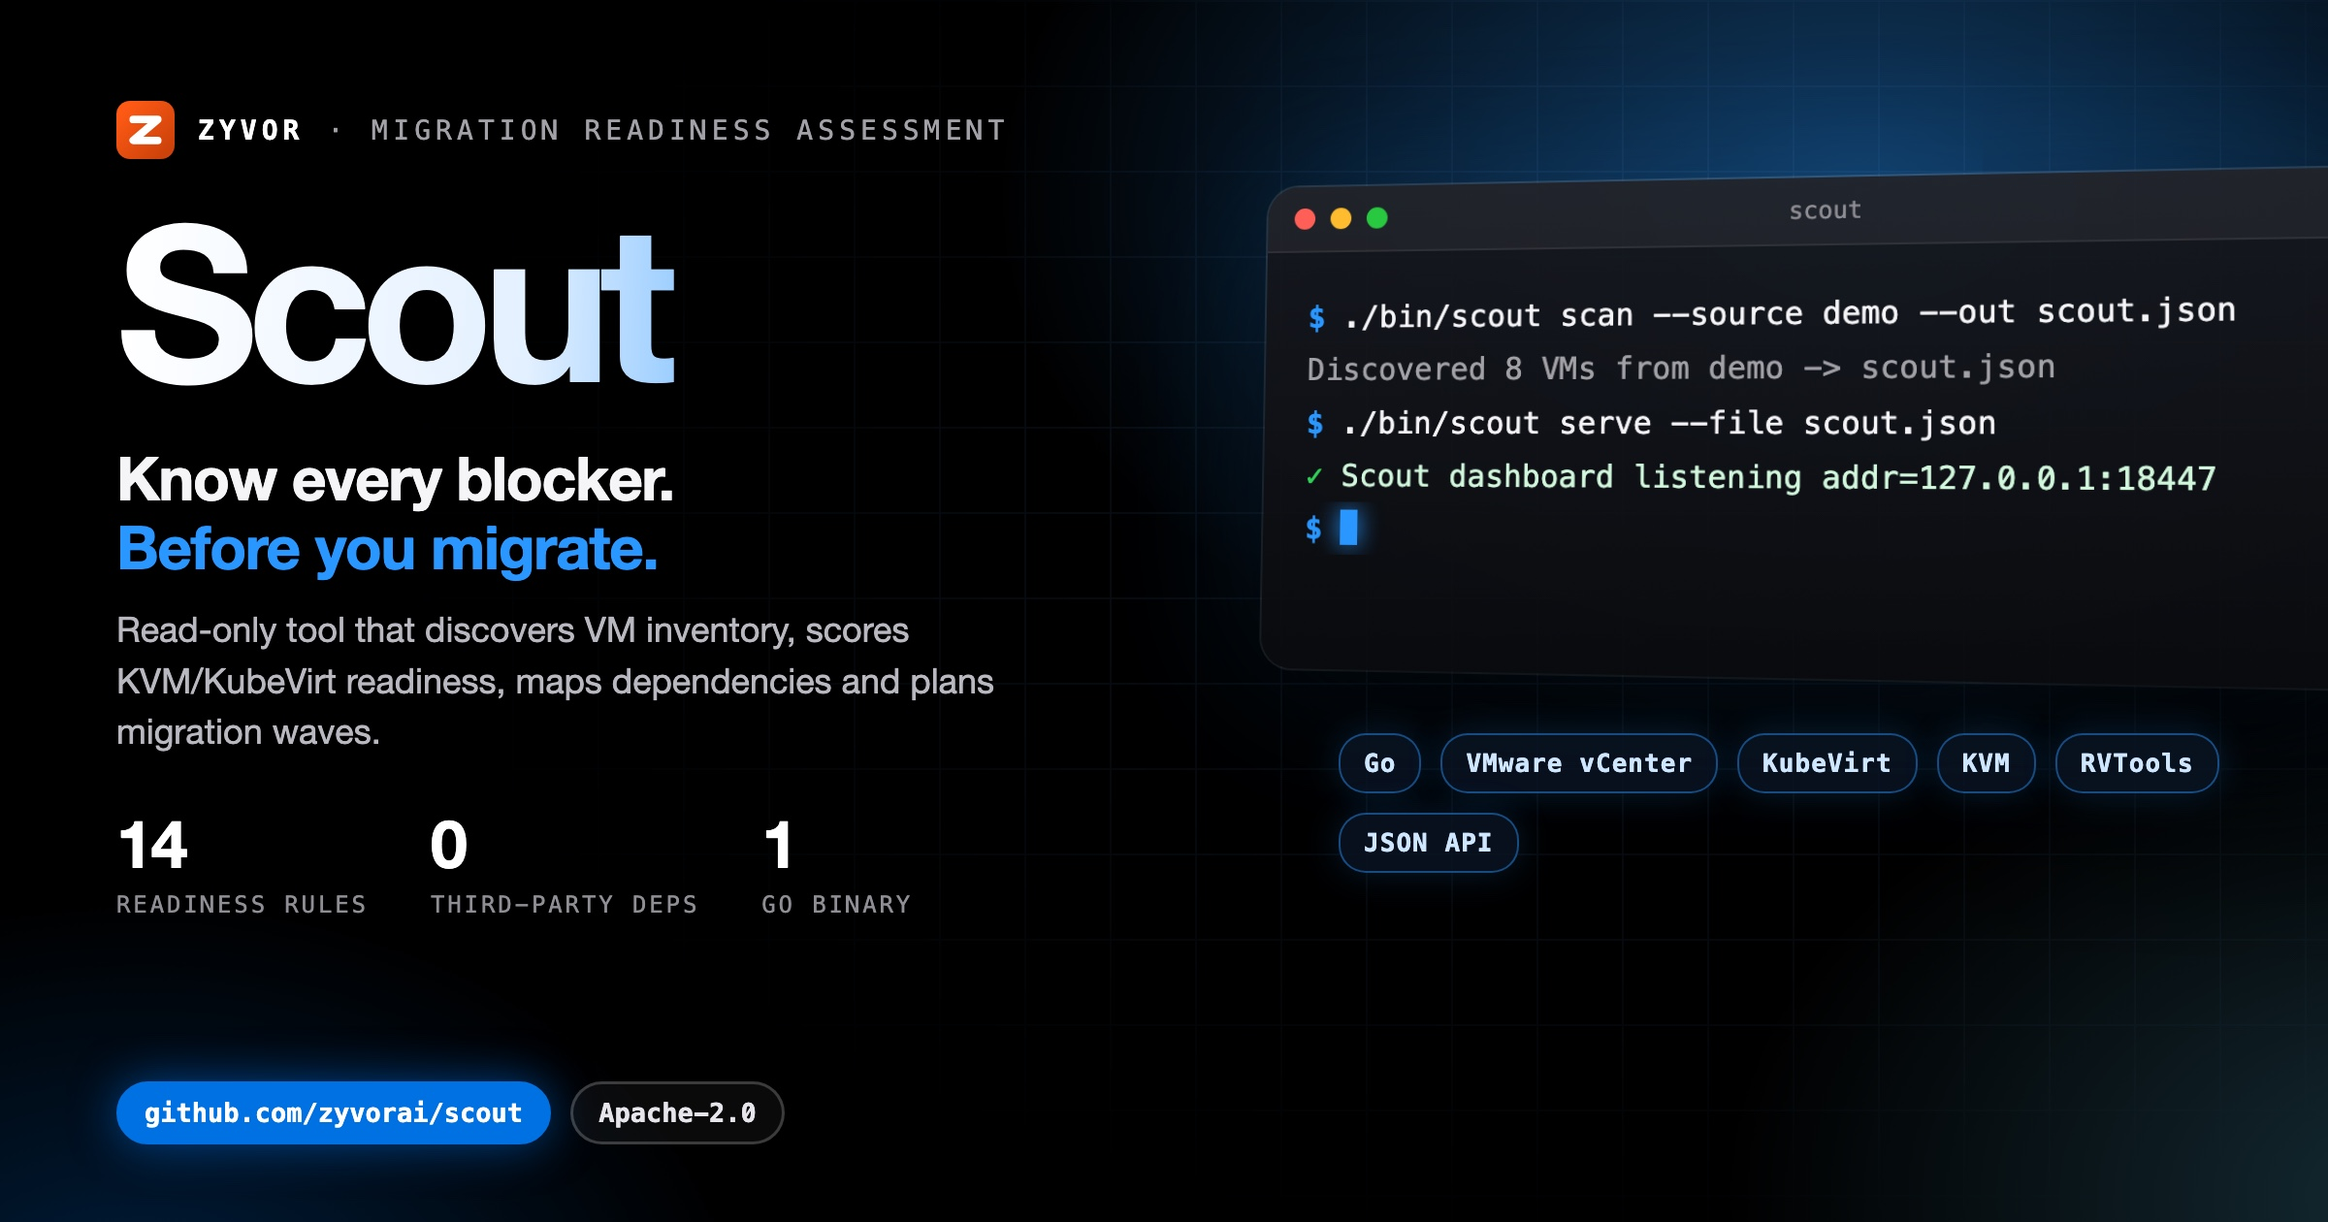
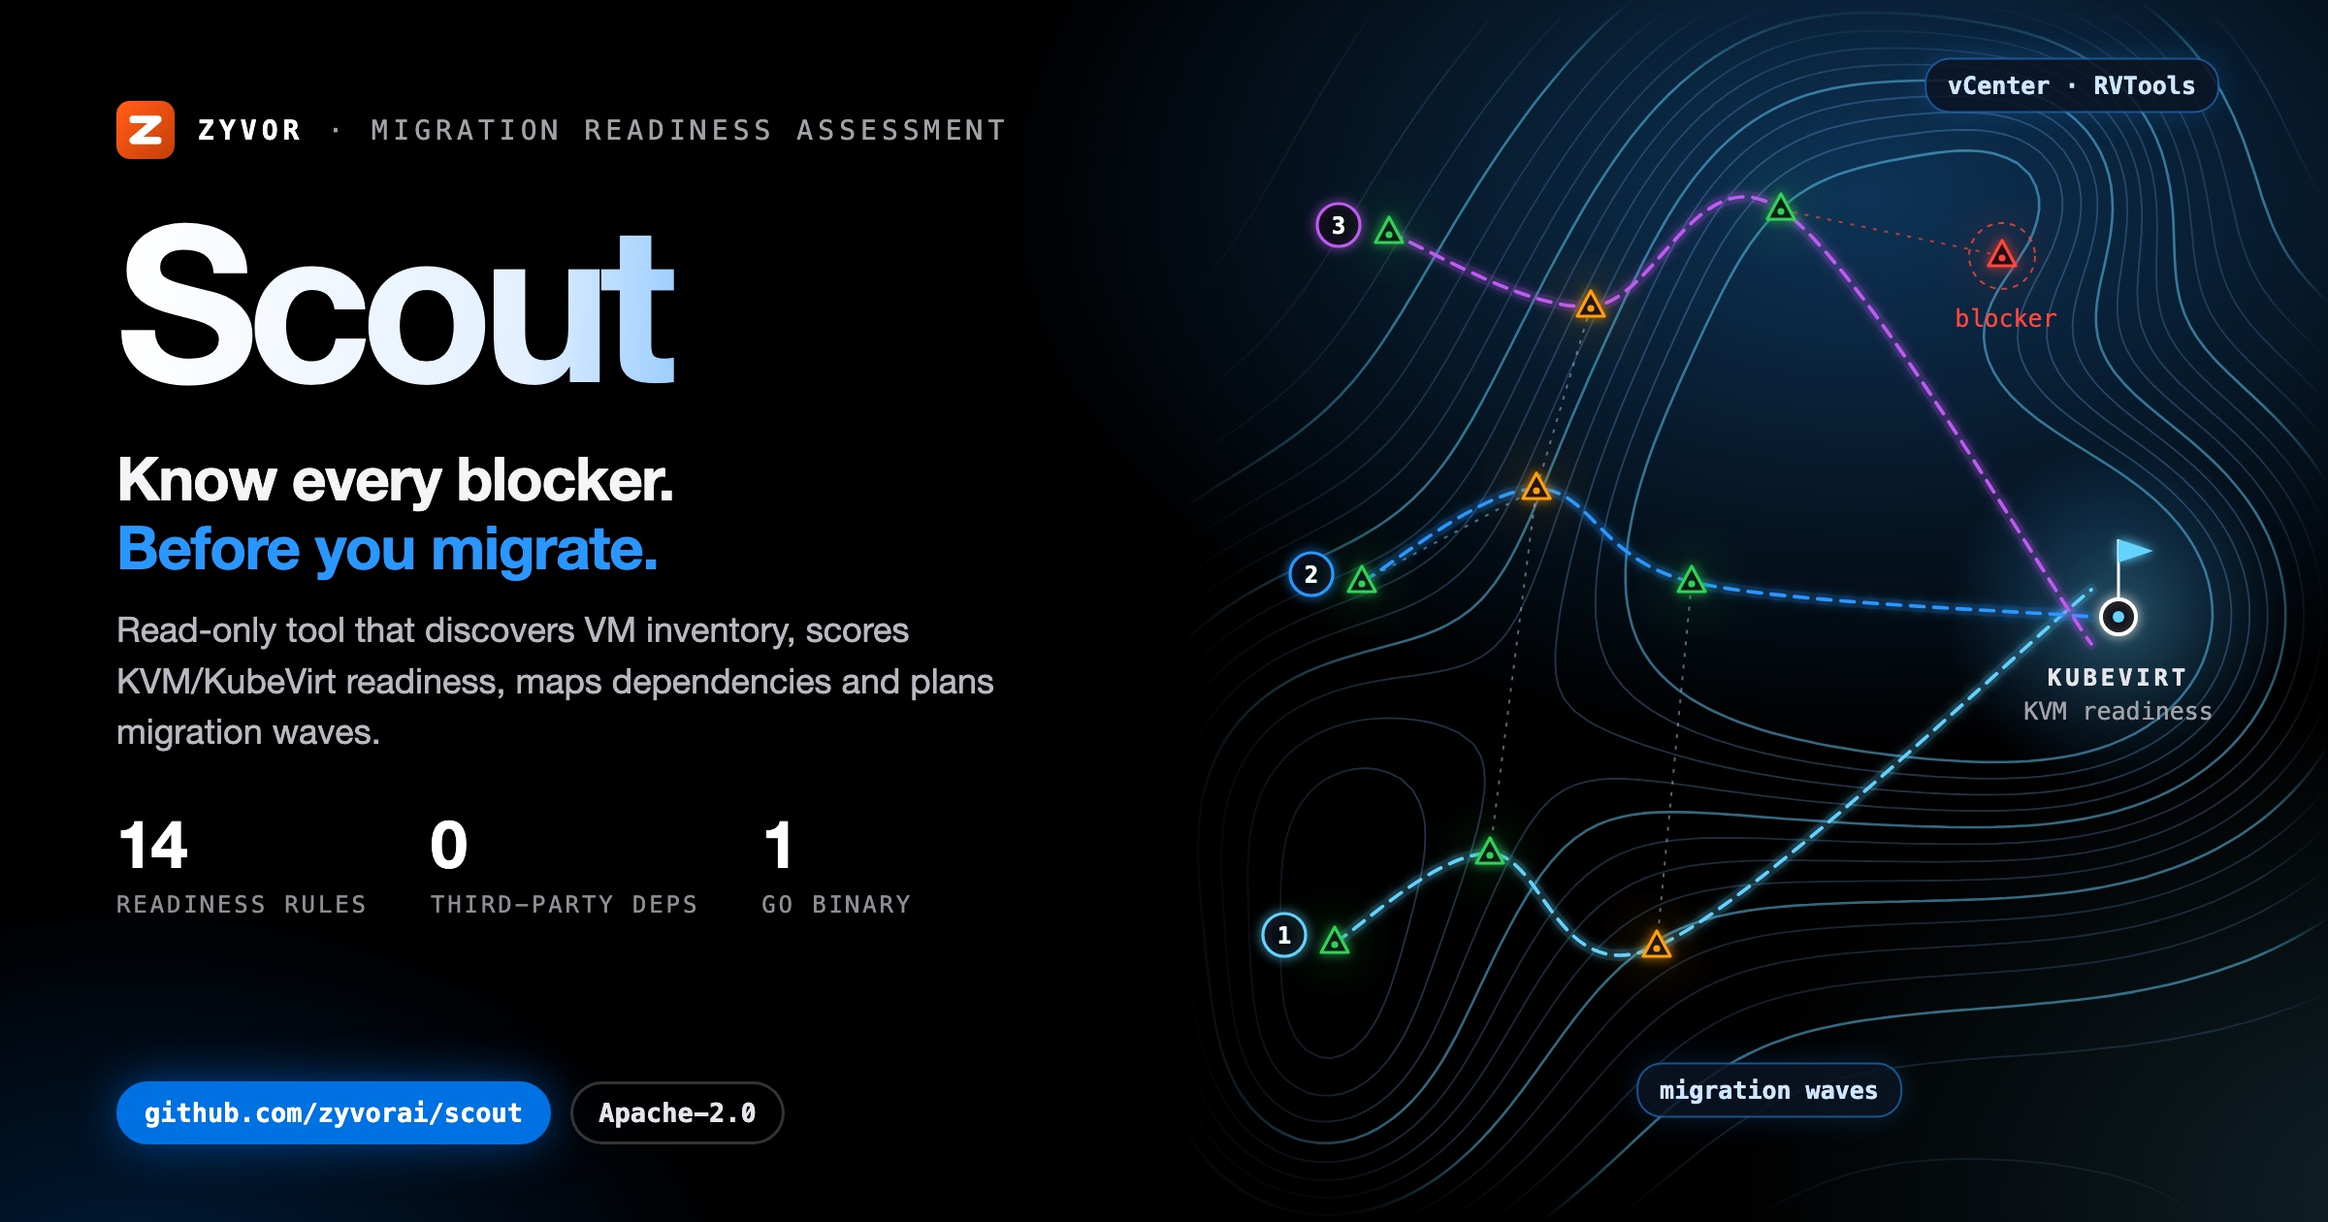
docs(social): unique illustrated hero card
Replace the shared terminal-window art with a motif drawn for this project;
same verified copy and stats on the left.

diff --git a/docs/social/scout-hero-dark.html b/docs/social/scout-hero-dark.html
@@ -8,58 +8,47 @@
   Build: ./docs/social/build-hero-dark.sh  ->  scout-hero-dark.jpg (2400x1260)
 -->
 <style>
-  :root { --blue:#0071e3; --signal:#2997ff; --cyan:#64d2ff; --green:#30d158; --amber:#ff9f0a;
+  :root { --blue:#0071e3; --signal:#2997ff; --cyan:#64d2ff; --green:#30d158; --amber:#ff9f0a; --red:#ff453a; --violet:#bf5af2;
     --sans:'SF Pro Display','Helvetica Neue',Helvetica,Arial,sans-serif; --mono:'SF Mono',Menlo,Consolas,monospace; }
   * { box-sizing:border-box; }
   html,body { margin:0; padding:0; }
   body { width:1200px; height:630px; overflow:hidden; color:#f5f5f7; font-family:var(--sans); position:relative; background:#000; }
   .aurora { position:absolute; inset:0;
-    background:radial-gradient(720px 460px at 80% 16%, rgba(41,151,255,.40), transparent 62%),
-               radial-gradient(600px 420px at 104% 98%, rgba(100,210,255,.20), transparent 60%),
+    background:radial-gradient(720px 460px at 80% 16%, rgba(41,151,255,.34), transparent 62%),
+               radial-gradient(600px 420px at 104% 98%, rgba(100,210,255,.16), transparent 60%),
                radial-gradient(520px 380px at 6% 110%, rgba(0,113,227,.28), transparent 60%); }
-  .grid { position:absolute; inset:0; opacity:.09;
-    background-image:linear-gradient(rgba(120,180,255,.9) 1px,transparent 1px),linear-gradient(90deg,rgba(120,180,255,.9) 1px,transparent 1px);
-    background-size:44px 44px; -webkit-mask-image:radial-gradient(900px 520px at 72% 42%, #000 18%, transparent 75%); }
-  .left { position:absolute; left:60px; top:52px; width:560px; z-index:3; }
+  .copy { position:absolute; left:60px; top:52px; width:560px; z-index:3; }
   .brand { display:flex; align-items:center; gap:12px; font-family:var(--mono); font-size:14px; letter-spacing:.18em; text-transform:uppercase; color:#a1a1a6; }
   .brand b { color:#fff; }
   .word { margin:20px 0 0; font-size:112px; line-height:.95; font-weight:800; letter-spacing:-.05em; white-space:nowrap;
     background:linear-gradient(92deg,#fff 0%,#e3f0ff 38%,var(--signal) 74%,var(--cyan) 100%); -webkit-background-clip:text; background-clip:text; color:transparent; padding-bottom:6px; }
   .tag { margin:14px 0 0; font-size:31px; line-height:1.15; font-weight:700; letter-spacing:-.02em; }
   .tag em { font-style:normal; color:var(--signal); }
-  .lede { margin:12px 0 0; font-size:18px; line-height:1.45; color:#b8b8bf; width:520px; }
+  .lede { margin:12px 0 0; font-size:18px; line-height:1.45; color:#b8b8bf; width:520px; text-shadow:0 1px 12px #000; }
   .stats { margin-top:24px; display:flex; gap:32px; }
   .stat b { display:block; font-size:34px; font-weight:800; letter-spacing:-.03em; color:#fff; }
   .stat span { font-family:var(--mono); font-size:12px; letter-spacing:.12em; text-transform:uppercase; color:#8e8e93; }
   .pill { position:absolute; left:60px; bottom:40px; display:flex; gap:10px; z-index:3; }
-  .pill span { font-family:var(--mono); font-size:13.5px; font-weight:700; padding:7px 13px; border-radius:18px; border:1.5px solid rgba(255,255,255,.2); color:#e5e5ea; background:rgba(255,255,255,.04); }
+  .pill span { font-family:var(--mono); font-size:13.5px; font-weight:700; padding:7px 13px; border-radius:18px; border:1.5px solid rgba(255,255,255,.2); color:#e5e5ea; background:rgba(0,0,0,.6); }
   .pill span.b { background:var(--blue); border-color:var(--blue); color:#fff; box-shadow:0 0 24px rgba(0,113,227,.55); }
-
-  .right { position:absolute; left:652px; top:96px; width:560px; z-index:2; }
-  .win { position:relative; width:560px; border-radius:16px; overflow:hidden; z-index:2;
-    background:linear-gradient(180deg, rgba(22,24,30,.94), rgba(10,11,14,.96));
-    box-shadow:0 50px 100px rgba(0,0,0,.75), 0 0 0 1px rgba(255,255,255,.14), 0 0 90px rgba(41,151,255,.22);
-    transform:perspective(1600px) rotateY(-14deg) rotateX(4deg); transform-origin:left center; }
-  .bar { height:34px; display:flex; align-items:center; gap:8px; padding:0 14px; background:rgba(255,255,255,.05); border-bottom:1px solid rgba(255,255,255,.07); }
-  .bar i { width:11px; height:11px; border-radius:50%; background:#ff5f57; } .bar i:nth-child(2){background:#febc2e} .bar i:nth-child(3){background:#28c840}
-  .bar em { margin-left:auto; margin-right:auto; font-style:normal; font-family:var(--mono); font-size:12px; color:#8e8e93; transform:translateX(-24px); }
-  .term { min-height:214px; padding:20px 22px 24px; font-family:var(--mono); font-size:15.5px; line-height:1.75; }
-  .l { white-space:pre; overflow:hidden; text-overflow:ellipsis; color:#f5f5f7; }
-  .l .p { color:var(--signal); font-weight:700; }
-  .l.out { color:#a1a1a6; }
-  .l.cm { color:#6e6e73; }
-  .l.ok { color:#d1f7dc; } .l.ok span { color:var(--green); font-weight:700; }
-  .l.warn { color:#ffe1b0; } .l.warn span { color:var(--amber); font-weight:700; }
-  .cur { display:inline-block; width:9px; height:18px; background:var(--signal); vertical-align:-3px; box-shadow:0 0 12px var(--signal); }
-  .chips { margin:34px 0 0 38px; width:480px; display:flex; flex-wrap:wrap; gap:10px; position:relative; z-index:3; }
-  .chips span { font-family:var(--mono); font-size:13px; font-weight:700; letter-spacing:.04em; padding:7px 12px; border-radius:14px;
-    color:#cfe6ff; background:rgba(10,20,35,.82); border:1px solid rgba(41,151,255,.45); box-shadow:0 0 18px rgba(41,151,255,.18); }
+  .art { position:absolute; left:520px; top:0; width:680px; height:630px; z-index:2; }
+  .art svg { display:block; }
+  #labels { position:absolute; inset:0; z-index:4; pointer-events:none; }
+  .lbl { position:absolute; font-family:var(--mono); font-size:12.5px; color:#a1a1a6; text-align:center; transform:translate(-50%,-50%); white-space:nowrap; }
+  .lbl b { display:block; font-size:12px; letter-spacing:.16em; text-transform:uppercase; color:#e5e5ea; }
+  .lbl span { display:block; margin-top:3px; }
+  .lbl.box { padding:7px 12px; border-radius:12px; background:rgba(8,10,14,.85); border:1px solid rgba(255,255,255,.14); }
+  .lbl.chip { padding:6px 11px; border-radius:13px; font-size:12.5px; font-weight:700; color:#cfe6ff; background:rgba(10,20,35,.85); border:1px solid rgba(41,151,255,.5); box-shadow:0 0 16px rgba(41,151,255,.2); }
+  .lbl.left { transform:translate(0,-50%); text-align:left; }
+  .lbl.right { transform:translate(-100%,-50%); text-align:right; }
+  .ok { color:var(--green) !important; } .warn { color:var(--amber) !important; } .bad { color:var(--red) !important; } .sig { color:var(--signal) !important; } .cy { color:var(--cyan) !important; } .vi { color:var(--violet) !important; }
 </style>
 </head>
 <body>
 <div class="aurora"></div>
-<div class="grid"></div>
-<div class="left">
+<div class="art"><svg id="art" width="680" height="630" viewBox="0 0 680 630" xmlns="http://www.w3.org/2000/svg"></svg></div>
+<div id="labels"></div>
+<div class="copy">
   <div class="brand"><svg viewBox="0 0 64 64" width="30" height="30" aria-hidden="true"><defs><linearGradient id="zb" x1="8" y1="8" x2="56" y2="56" gradientUnits="userSpaceOnUse"><stop offset="0" stop-color="#ff5a15"/><stop offset="1" stop-color="#cc420a"/></linearGradient></defs><rect width="64" height="64" rx="15" fill="url(#zb)"/><path d="M18.5,20.5 45.5,20.5 18.5,43.5 45.5,43.5" fill="none" stroke="#fff" stroke-width="8.3" stroke-linecap="round" stroke-linejoin="round"/></svg><b>Zyvor</b><span>&middot;</span><span>Migration readiness assessment</span></div>
   <div class="word">Scout</div>
   <div class="tag">Know every blocker.<br><em>Before you migrate.</em></div>
@@ -67,8 +56,123 @@
   <div class="stats"><div class="stat"><b>14</b><span>readiness rules</span></div><div class="stat"><b>0</b><span>third-party deps</span></div><div class="stat"><b>1</b><span>Go binary</span></div></div>
 </div>
 <div class="pill"><span class="b">github.com/zyvorai/scout</span><span>Apache-2.0</span></div>
-<div class="right"><div class="win"><div class="bar"><i></i><i></i><i></i><em>scout</em></div>
-<div class="term"><div class="l"><span class="p">$</span> ./bin/scout scan --source demo --out scout.json</div><div class="l out">Discovered 8 VMs from demo -&gt; scout.json</div><div class="l"><span class="p">$</span> ./bin/scout serve --file scout.json</div><div class="l ok"><span>&#10003;</span> Scout dashboard listening addr=127.0.0.1:18447</div><div class="l"><span class="p">$</span> <i class="cur"></i></div></div></div>
-<div class="chips"><span>Go</span><span>VMware vCenter</span><span>KubeVirt</span><span>KVM</span><span>RVTools</span><span>JSON API</span></div></div>
+<script>
+var Z = (function () {
+  var NS = 'http://www.w3.org/2000/svg', svg = document.getElementById('art'), labels = document.getElementById('labels');
+  var seed = 20261004;
+  function rnd() { seed = (seed * 1103515245 + 12345) % 2147483648; return seed / 2147483648; }
+  function el(tag, a, parent) { var n = document.createElementNS(NS, tag); for (var k in a) n.setAttribute(k, a[k]); (parent || svg).appendChild(n); return n; }
+  function g(attrs) { return el('g', attrs || {}); }
+  function label(x, y, inner, cls, style) { var d = document.createElement('div'); d.className = 'lbl ' + (cls || ''); d.style.left = (520 + x) + 'px'; d.style.top = y + 'px'; if (style) d.setAttribute('style', d.getAttribute('style') + ';' + style); d.innerHTML = inner; labels.appendChild(d); return d; }
+  return { NS: NS, svg: svg, W: 680, H: 630, rnd: rnd, el: el, g: g, label: label,
+    reseed: function (s) { seed = s; },
+    c: { blue: '#0071e3', signal: '#2997ff', cyan: '#64d2ff', green: '#30d158', amber: '#ff9f0a', red: '#ff453a', violet: '#bf5af2', teal: '#40c8e0', indigo: '#5e5ce6', pink: '#ff375f', white: '#f5f5f7', grey: '#8e8e93' } };
+})();
+(function () {
+// Scout: topographic survey. Contour terrain, VM survey markers scored by readiness, dependency lines,
+// and numbered migration-wave trails climbing to the KubeVirt summit. The blocker VM stays off every trail.
+var C = Z.c;
+var defs = Z.el('defs', {});
+defs.innerHTML = '<filter id="sc-gl" x="-50%" y="-50%" width="200%" height="200%"><feGaussianBlur stdDeviation="3" result="b"/><feMerge><feMergeNode in="b"/><feMergeNode in="SourceGraphic"/></feMerge></filter>' +
+  '<filter id="sc-sf" x="-50%" y="-50%" width="200%" height="200%"><feGaussianBlur stdDeviation="14"/></filter>' +
+  '<linearGradient id="sc-fh" x1="0" y1="0" x2="1" y2="0"><stop offset="0" stop-color="#fff" stop-opacity="0"/><stop offset=".13" stop-color="#fff" stop-opacity="0"/><stop offset=".3" stop-color="#fff"/><stop offset=".95" stop-color="#fff"/><stop offset="1" stop-color="#fff" stop-opacity="0"/></linearGradient>' +
+  '<linearGradient id="sc-fv" x1="0" y1="0" x2="0" y2="1"><stop offset="0" stop-color="#fff" stop-opacity="0"/><stop offset=".07" stop-color="#fff"/><stop offset=".93" stop-color="#fff"/><stop offset="1" stop-color="#fff" stop-opacity="0"/></linearGradient>' +
+  '<mask id="sc-mh" maskUnits="userSpaceOnUse" x="0" y="0" width="680" height="630"><rect width="680" height="630" fill="url(#sc-fh)"/></mask>' +
+  '<mask id="sc-mv" maskUnits="userSpaceOnUse" x="0" y="0" width="680" height="630"><rect width="680" height="630" fill="url(#sc-fv)"/></mask>' +
+  '<radialGradient id="sc-sum"><stop offset="0" stop-color="#64d2ff" stop-opacity=".5"/><stop offset="1" stop-color="#2997ff" stop-opacity="0"/></radialGradient>';
+
+var target = { x: 572, y: 318 };
+var hills = [{ x: target.x, y: target.y, a: 1.0, s: 92 }];
+Z.reseed(7);
+for (var i = 0; i < 7; i++) hills.push({ x: 120 + Z.rnd() * 420, y: 60 + Z.rnd() * 510, a: .35 + Z.rnd() * .45, s: 50 + Z.rnd() * 60 });
+function field(x, y) {
+  var v = 0.15 * (x / 680);
+  for (var k = 0; k < hills.length; k++) { var h = hills[k], dx = x - h.x, dy = y - h.y; v += h.a * Math.exp(-(dx * dx + dy * dy) / (2 * h.s * h.s)); }
+  return v;
+}
+
+// marching squares
+var S = 6, X0 = 40, Y0 = 0, NX = Math.ceil(640 / S), NY = Math.ceil(630 / S), F = [];
+for (var j = 0; j <= NY; j++) { F.push([]); for (var i = 0; i <= NX; i++) F[j].push(field(X0 + i * S, Y0 + j * S)); }
+function contour(L) {
+  var d = [];
+  function ip(x1, y1, v1, x2, y2, v2) { var t = (L - v1) / (v2 - v1); return [x1 + (x2 - x1) * t, y1 + (y2 - y1) * t]; }
+  for (var j = 0; j < NY; j++) for (var i = 0; i < NX; i++) {
+    var x = X0 + i * S, y = Y0 + j * S, a = F[j][i], b = F[j][i + 1], c = F[j + 1][i + 1], e = F[j + 1][i];
+    var pts = [];
+    if ((a < L) !== (b < L)) pts.push(ip(x, y, a, x + S, y, b));
+    if ((b < L) !== (c < L)) pts.push(ip(x + S, y, b, x + S, y + S, c));
+    if ((e < L) !== (c < L)) pts.push(ip(x, y + S, e, x + S, y + S, c));
+    if ((a < L) !== (e < L)) pts.push(ip(x, y, a, x, y + S, e));
+    for (var p = 0; p + 1 < pts.length; p += 2)
+      d.push('M' + pts[p][0].toFixed(1) + ',' + pts[p][1].toFixed(1) + 'L' + pts[p + 1][0].toFixed(1) + ',' + pts[p + 1][1].toFixed(1));
+  }
+  return d.join('');
+}
+var terrain = Z.el('g', { mask: 'url(#sc-mv)' }, Z.g({ mask: 'url(#sc-mh)' }));
+for (var n = 1; n <= 16; n++) {
+  var L = 0.07 * n, idx = n % 4 === 0;
+  Z.el('path', { d: contour(L), fill: 'none', 'stroke-linecap': 'round',
+    stroke: idx ? 'rgba(100,210,255,.5)' : 'rgba(120,185,255,' + (0.13 + n * 0.01).toFixed(3) + ')', 'stroke-width': idx ? 1.3 : .9 }, terrain);
+}
+Z.el('circle', { cx: target.x, cy: target.y, r: 90, fill: 'url(#sc-sum)', opacity: .7 });
+
+// survey VMs: r = ready, w = warnings, b = blocker
+var vms = [
+  { x: 168, y: 486, s: 'r', w: 1 }, { x: 248, y: 440, s: 'r', w: 1 }, { x: 334, y: 488, s: 'w', w: 1 },
+  { x: 182, y: 300, s: 'r', w: 2 }, { x: 272, y: 252, s: 'w', w: 2 }, { x: 352, y: 300, s: 'r', w: 2 },
+  { x: 196, y: 120, s: 'r', w: 3 }, { x: 300, y: 158, s: 'w', w: 3 }, { x: 398, y: 108, s: 'r', w: 3 },
+  { x: 512, y: 132, s: 'b', w: 0 }
+];
+var deps = [[2, 5], [4, 7], [9, 8], [3, 4], [1, 4]];
+deps.forEach(function (e) {
+  var a = vms[e[0]], b = vms[e[1]];
+  Z.el('line', { x1: a.x, y1: a.y, x2: b.x, y2: b.y, stroke: e[0] === 9 ? C.red : 'rgba(200,220,255,.45)', 'stroke-width': 1, 'stroke-dasharray': '2 4', opacity: e[0] === 9 ? .7 : 1 });
+});
+
+// wave trails (Catmull-Rom through the wave's VMs, ending at the summit)
+var waveCol = { 1: C.cyan, 2: C.signal, 3: C.violet };
+function trail(pts) {
+  var d = 'M' + pts[0].x + ',' + pts[0].y;
+  for (var i = 0; i < pts.length - 1; i++) {
+    var p0 = pts[i - 1] || pts[i], p1 = pts[i], p2 = pts[i + 1], p3 = pts[i + 2] || p2;
+    d += ' C' + (p1.x + (p2.x - p0.x) / 6).toFixed(1) + ',' + (p1.y + (p2.y - p0.y) / 6).toFixed(1) + ' ' + (p2.x - (p3.x - p1.x) / 6).toFixed(1) + ',' + (p2.y - (p3.y - p1.y) / 6).toFixed(1) + ' ' + p2.x + ',' + p2.y;
+  }
+  return d;
+}
+[1, 2, 3].forEach(function (w) {
+  var pts = vms.filter(function (v) { return v.w === w; }).concat([{ x: target.x - 14, y: target.y + (w - 2) * 14 }]);
+  var d = trail(pts), col = waveCol[w];
+  Z.el('path', { d: d, fill: 'none', stroke: col, 'stroke-width': 6, opacity: .12, 'stroke-linecap': 'round' });
+  Z.el('path', { d: d, fill: 'none', stroke: col, 'stroke-width': 1.8, 'stroke-dasharray': '7 5', 'stroke-linecap': 'round', filter: 'url(#sc-gl)' });
+  var s = pts[0], bx = s.x - 26, by = s.y - 4;
+  Z.el('circle', { cx: bx, cy: by, r: 11, fill: 'rgba(6,10,18,.95)', stroke: col, 'stroke-width': 1.6, filter: 'url(#sc-gl)' });
+  var t = Z.el('text', { x: bx, y: by + 4.3, 'text-anchor': 'middle', fill: '#fff', 'font-size': 12, 'font-weight': 700, 'font-family': 'SF Mono, Menlo, monospace' });
+  t.textContent = String(w);
+});
+
+// VM markers: survey triangles coloured by readiness
+var scol = { r: C.green, w: C.amber, b: C.red };
+vms.forEach(function (v) {
+  var col = scol[v.s];
+  Z.el('circle', { cx: v.x, cy: v.y, r: 14, fill: col, opacity: .16, filter: 'url(#sc-sf)' });
+  Z.el('path', { d: 'M' + v.x + ',' + (v.y - 8) + ' L' + (v.x + 7) + ',' + (v.y + 5) + ' L' + (v.x - 7) + ',' + (v.y + 5) + 'Z', fill: 'rgba(6,10,18,.95)', stroke: col, 'stroke-width': 1.6, 'stroke-linejoin': 'round', filter: 'url(#sc-gl)' });
+  Z.el('circle', { cx: v.x, cy: v.y + 1, r: 1.8, fill: col });
+});
+var bv = vms[9];
+Z.el('circle', { cx: bv.x, cy: bv.y, r: 17, fill: 'none', stroke: C.red, 'stroke-width': 1, 'stroke-dasharray': '3 3', opacity: .8 });
+
+// summit flag
+Z.el('circle', { cx: target.x, cy: target.y, r: 9, fill: 'rgba(6,10,18,.95)', stroke: '#fff', 'stroke-width': 2, filter: 'url(#sc-gl)' });
+Z.el('circle', { cx: target.x, cy: target.y, r: 3, fill: C.cyan });
+Z.el('line', { x1: target.x, y1: target.y - 9, x2: target.x, y2: target.y - 40, stroke: '#fff', 'stroke-width': 1.5 });
+Z.el('path', { d: 'M' + target.x + ',' + (target.y - 40) + ' l18,6 l-18,6Z', fill: C.cyan, filter: 'url(#sc-gl)' });
+
+Z.label(target.x, target.y + 40, '<b>KubeVirt</b><span>KVM readiness</span>');
+Z.label(bv.x + 2, bv.y + 32, '<span class="bad" style="margin:0">blocker</span>');
+Z.label(392, 562, 'migration waves', 'chip');
+Z.label(548, 44, 'vCenter &middot; RVTools', 'chip');
+})();
+</script>
 </body>
 </html>
